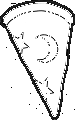
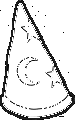
poprawki, poprawione kapelusze, odnawianie many

diff --git a/branches/Kivu/001/RzezniaMagow/Game.cs b/branches/Kivu/001/RzezniaMagow/Game.cs
@@ -11,6 +11,7 @@ using Microsoft.Xna.Framework.Media;
 using Microsoft.Xna.Framework.Net;
 using Microsoft.Xna.Framework.Storage;
 using System.Threading;
+using System.Timers;
 
 namespace RzezniaMagow
 {
@@ -36,7 +37,7 @@ namespace RzezniaMagow
 
         public static bool czySerwer, czyKlient, konsola, koniecGry;
         volatile public static bool czyNowaRunda;
-
+        private System.Timers.Timer manaTimer;
 
         //zmienne testowe w razie problemow do usuniecia
 
@@ -70,7 +71,8 @@ namespace RzezniaMagow
             koniecGry = false;
 
             message = null;
-
+            manaTimer = new System.Timers.Timer(100);
+            manaTimer.Elapsed += new ElapsedEventHandler(manaTimerTick);
 
         }
 
@@ -174,13 +176,10 @@ namespace RzezniaMagow
             {
                 mysz.procesMyszy();
                 klawiatura.procesKlawiatury();
-
             }
 
             for (int i = 0; i < client.listaPociskow.Count; i++)
             {
-
-
                 client.listaPociskow.ElementAt(i).updatePosition(gameTime);
             }
             if (client.listaPociskow.Count > 0)
@@ -232,11 +231,7 @@ namespace RzezniaMagow
 
 
                 spriteBatch.Draw(cel, zawodnik.getPozycjaKursora, Color.White);
-                
-
                 rysujKapelusze(spriteBatch);
-
-
 
                 if (message != null)
                 {
@@ -245,7 +240,6 @@ namespace RzezniaMagow
                     if (czasPrzygotowania < 0)
                         message = null;
                 }
-
             }
 
             if (konsola)
@@ -260,11 +254,7 @@ namespace RzezniaMagow
                     spriteBatch.DrawString(spriteFont, client.listaGraczy.ElementAt(i).getNick, new Vector2(kons.X + 50, kons.Y + 150 + i * 30), Color.Red);
                     spriteBatch.DrawString(spriteFont, client.listaGraczy.ElementAt(i).getPunkty.ToString(), new Vector2(kons.X + 200, kons.Y + 150 + i * 30), Color.Red);
                     spriteBatch.DrawString(spriteFont, client.listaGraczy.ElementAt(i).getIloscZgonow.ToString(), new Vector2(kons.X + 360, kons.Y + 150 + i * 30), Color.Red);
-
-
-
                 }
-
             }
 
 
@@ -285,16 +275,27 @@ namespace RzezniaMagow
             float poziomZycia = (float)(Game.zawodnik.getZycie) / 100;
 
             spriteBatch.Draw(kapLewyPusty, pozycjaLewa, Color.White);
-            spriteBatch.Draw(kapLewy, pozycjaLewa, new Rectangle(0, 0, kapLewy.Width, (int)(kapLewy.Height * poziomMany)), Color.White);
+            //spriteBatch.Draw(kapLewy, pozycjaLewa, new Rectangle(0, 0, kapLewy.Width, (int)(kapLewy.Height * poziomMany)), Color.White);
 
             spriteBatch.Draw(kapPrawyPusty, pozycjaPrawa, Color.White);
-            spriteBatch.Draw(kapPrawy, pozycjaPrawa, new Rectangle(0, 0, kapPrawy.Width, (int)(kapPrawy.Height * poziomZycia)), Color.White);
-
-
-
+            //spriteBatch.Draw(kapPrawy, pozycjaPrawa, new Rectangle(0, 0, kapPrawy.Width, (int)(kapPrawy.Height * poziomZycia)), Color.White);
+        
+            spriteBatch.Draw(kapLewy, new Vector2(pozycjaLewa.X, pozycjaLewa.Y + kapLewy.Height - (int)(kapLewy.Height * poziomMany)), new Rectangle(0, kapLewy.Height - (int)(kapLewy.Height * poziomMany), kapLewy.Width, (int)(kapLewy.Height * poziomMany)), Color.White);
+            spriteBatch.Draw(kapPrawy, new Vector2(pozycjaPrawa.X, pozycjaPrawa.Y + kapPrawy.Height - (int)(kapPrawy.Height * poziomZycia)), new Rectangle(0, kapPrawy.Height - (int)(kapPrawy.Height * poziomZycia), kapPrawy.Width, (int)(kapPrawy.Height * poziomZycia)), Color.White);
+        
+        
+        
+        
+        
+        
         }
 
+        private void manaTimerTick(object o, ElapsedEventArgs args) 
+        {
+            if (zawodnik != null && zawodnik.getPunktyMany<100)
+                zawodnik.getPunktyMany++;
 
+        }
 
 
 

diff --git a/branches/Kivu/001/RzezniaMagow/Logic/ClientLogic.cs b/branches/Kivu/001/RzezniaMagow/Logic/ClientLogic.cs
@@ -64,7 +64,7 @@ namespace RzezniaMagow
                 if (listaGraczy.ElementAt(i).getPunkty == 10)
                 {
                     Game.koniecGry = true;
-                    Game.message = "Game Over.\n The Winner is :   " + listaGraczy.ElementAt(i).getNick;
+                    Game.message = "Game Over.\n The Winner is :\n" + listaGraczy.ElementAt(i).getNick;
                     Game.czasPrzygotowania = 10000;
                 }
             }

diff --git a/branches/Kivu/001/RzezniaMagow/Logic/ServerLogic.cs b/branches/Kivu/001/RzezniaMagow/Logic/ServerLogic.cs
@@ -84,7 +84,7 @@ namespace RzezniaMagow
             
             players.Add(p);
 
-            if (players.Count > 1 && flaga)
+            if (players.Count > 0 && flaga)
             {
                 Game.czyNowaRunda = true;
                 flaga = false;
